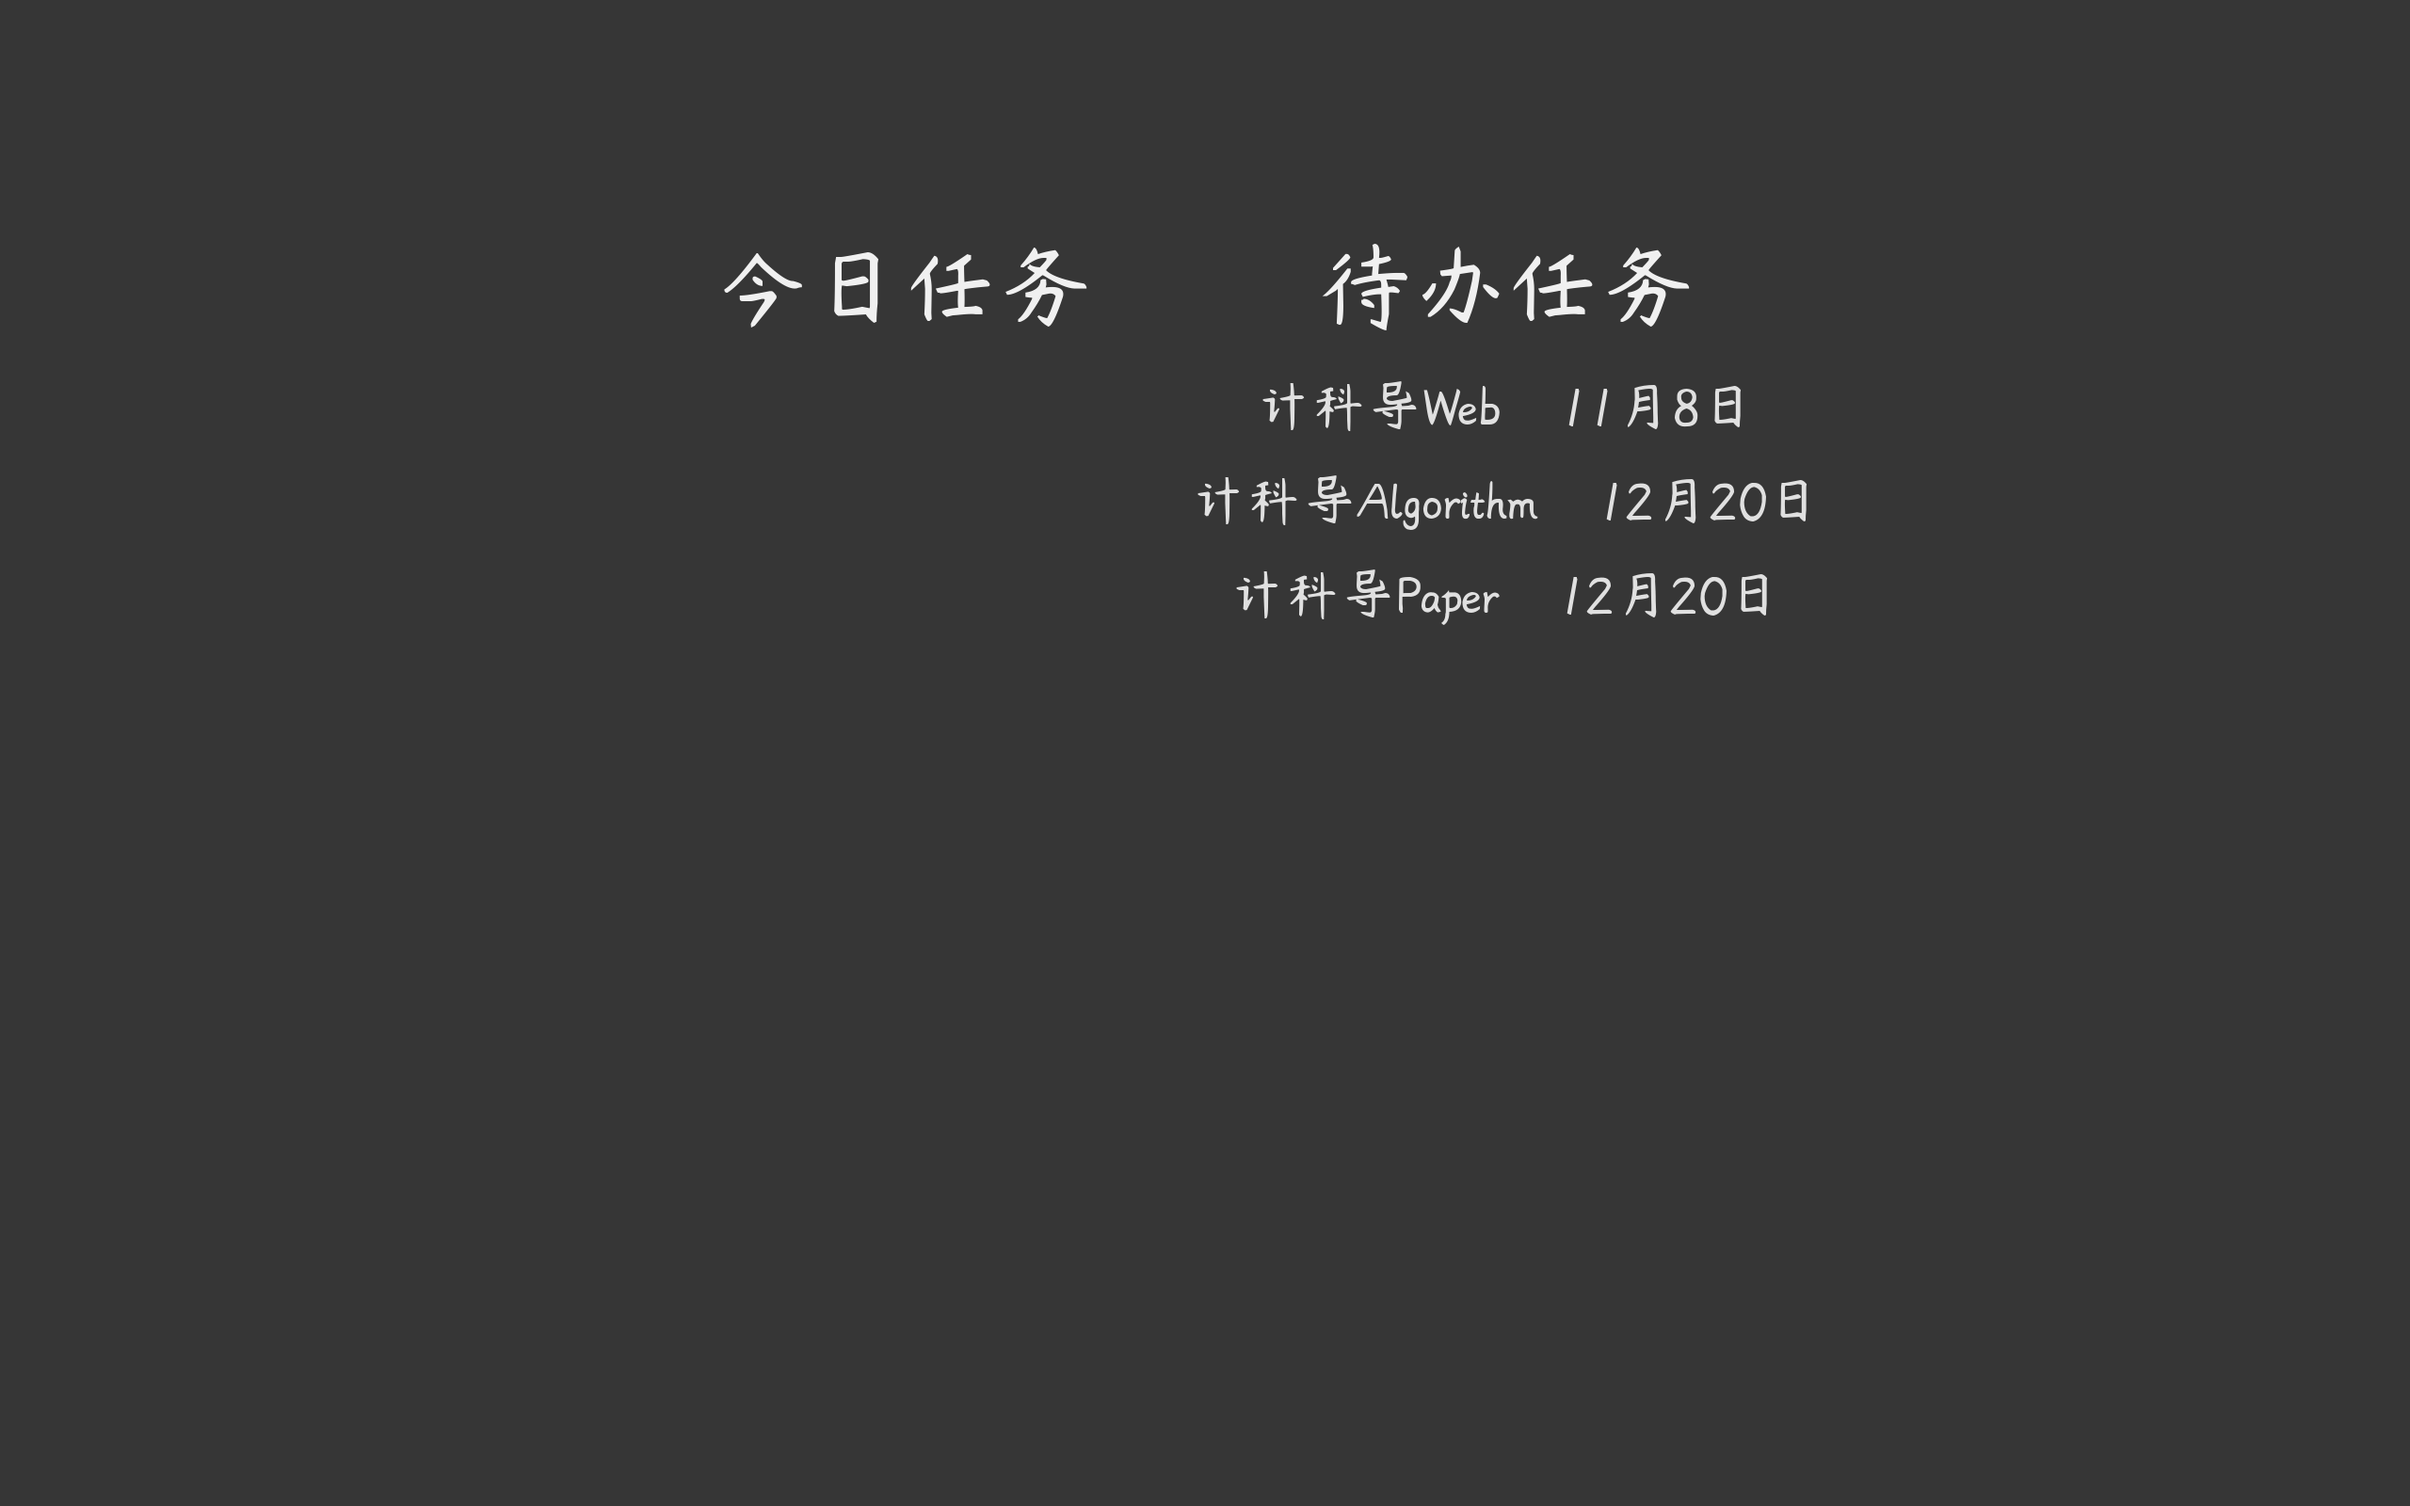
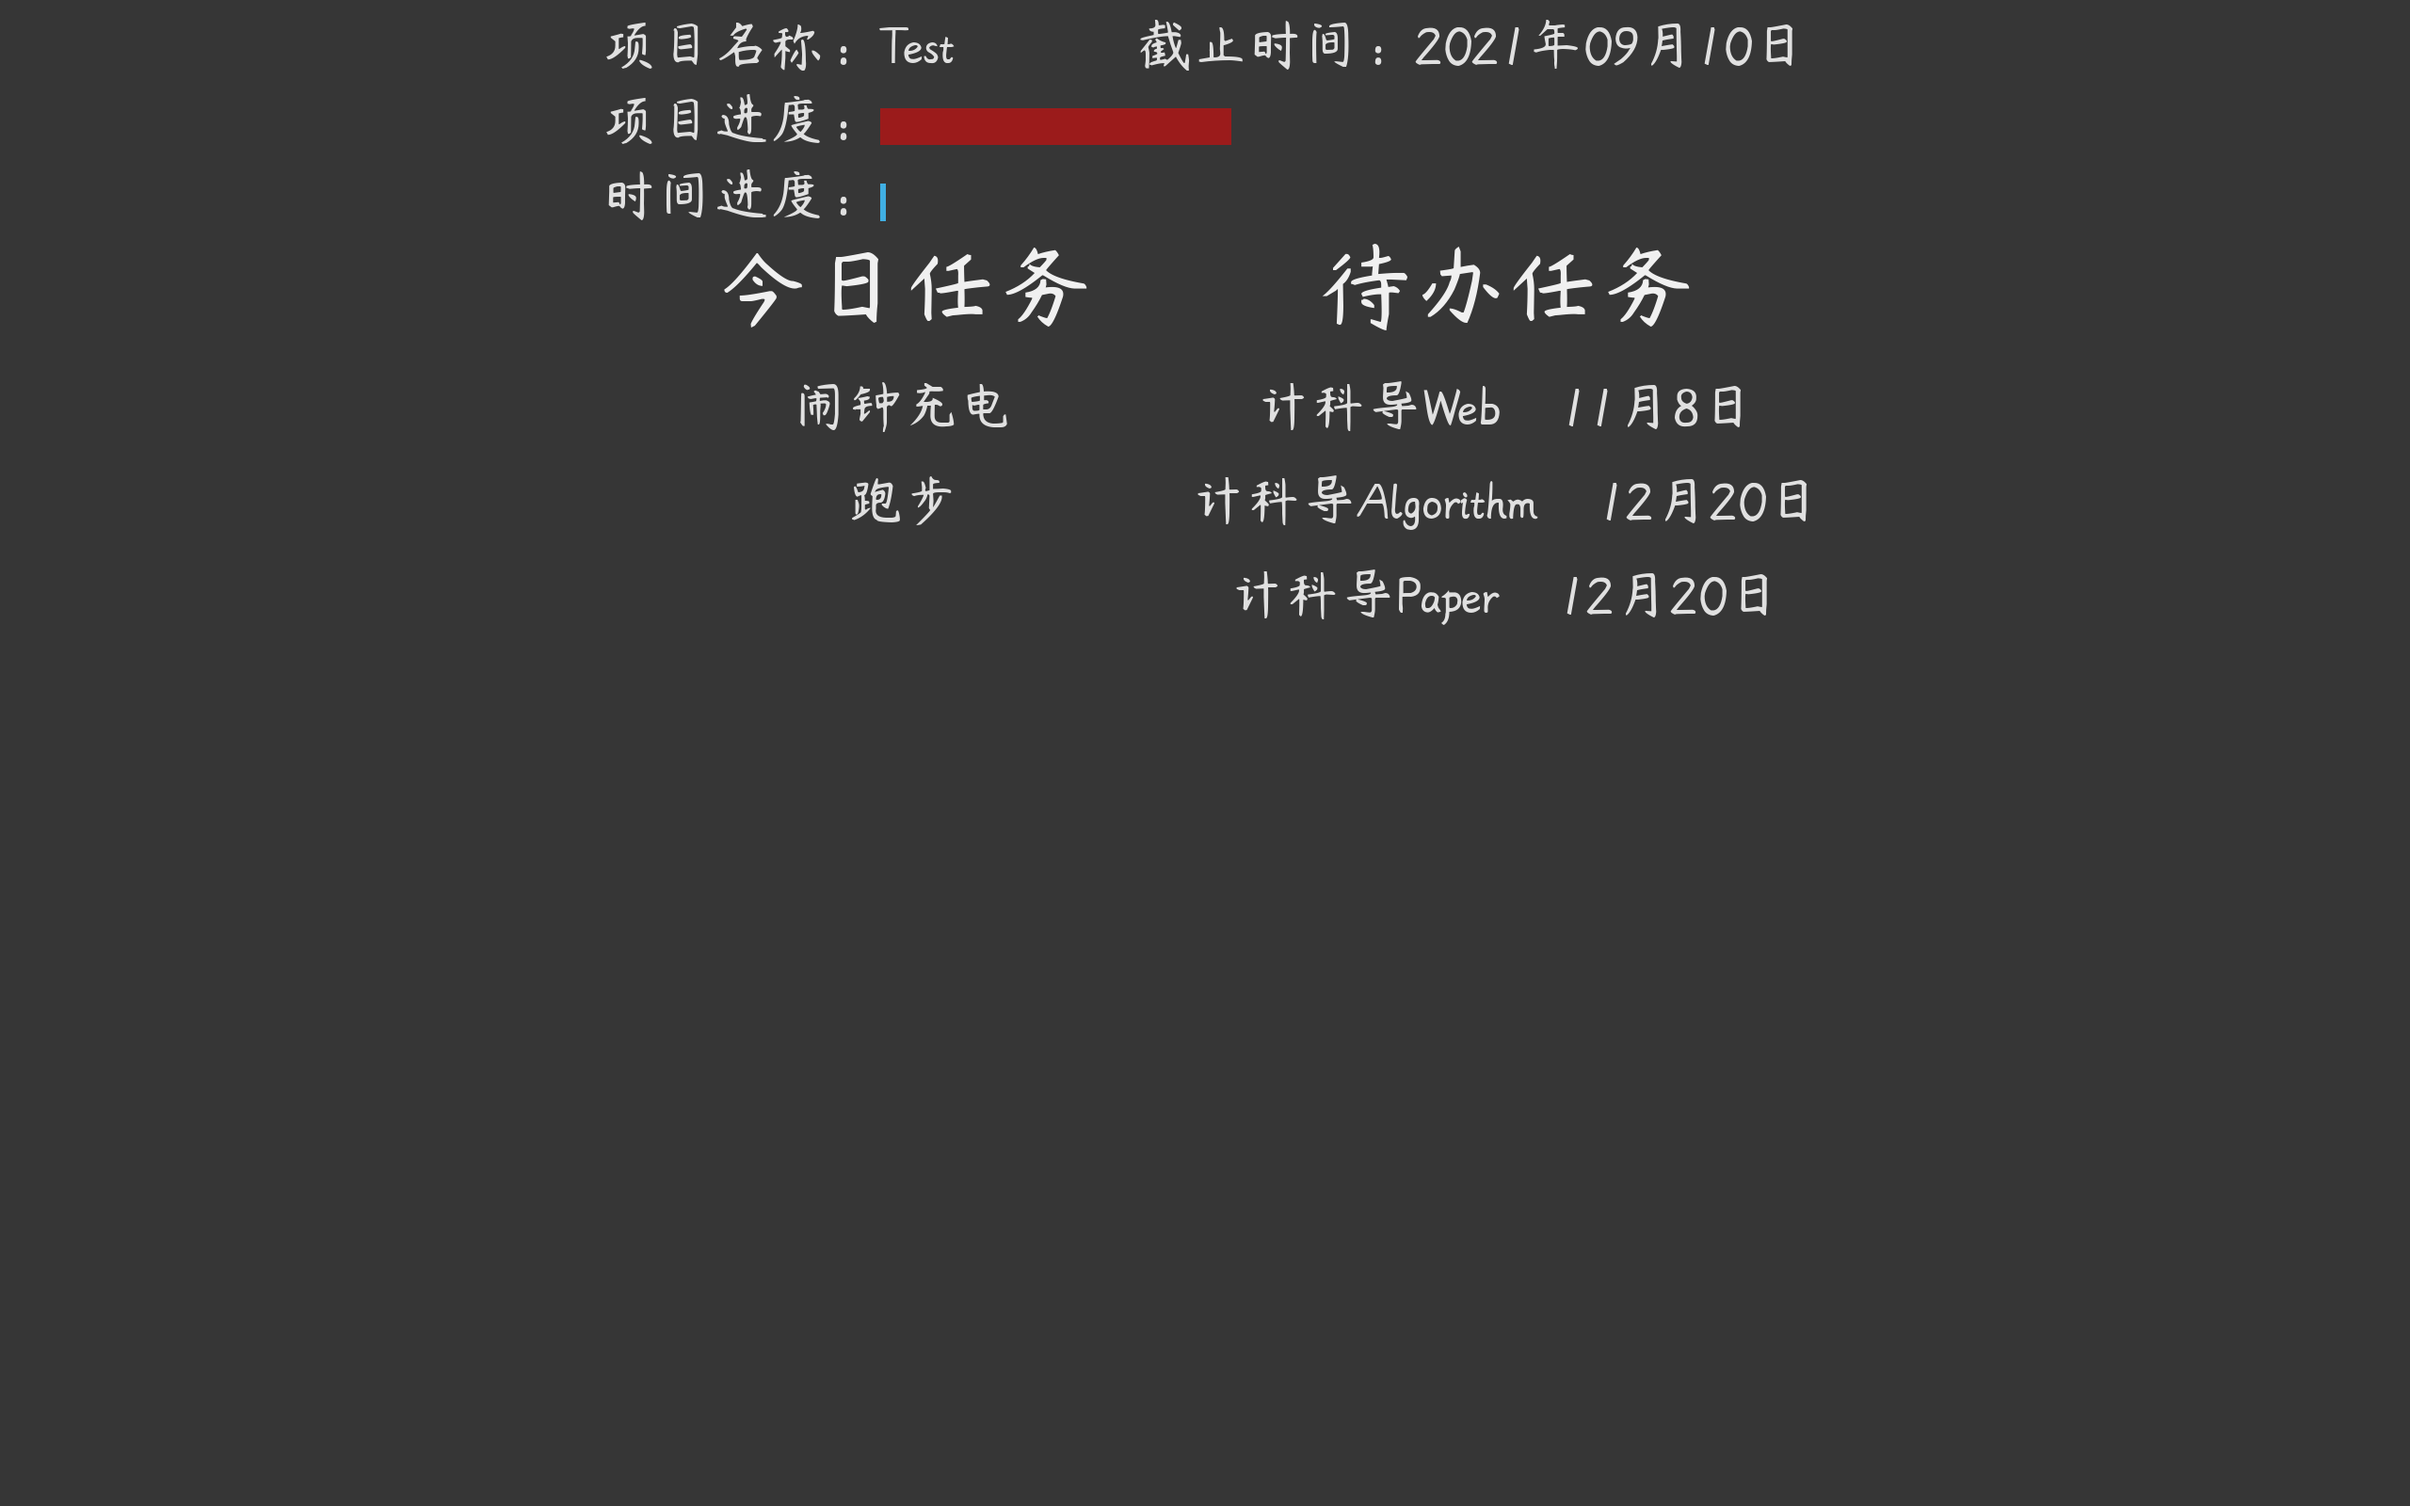
finish Project painting

diff --git a/Code/Project/p_paint.py b/Code/Project/p_paint.py
@@ -1,7 +1,60 @@
 # p_paint.py
 
 from Project import project
+from paint_init import *
+import time
 
+# 绘制没有长期项目时的提示
+def drawNoProject():
+    p_title_size = TITLE_FONT.getsize('没有长期项目')
+    p_title_location = (WIN_WIDTH / 2 - p_title_size[0] / 2, WIN_HEIGHT / 16)
+    DRAW.text(p_title_location, '没有长期项目', TITLE_COLOR, TITLE_FONT)
 
 def paint_project():
-    pass
+    # 判断是否存在长期项目，并读取信息
+    try:
+        p_file = open(project.PROJECT_FILE, 'r', encoding='UTF-8')
+        p = p_file.readline()
+        p_contain = p.split(',')
+        if len(p_contain) != 5:
+            drawNoProject()
+            return
+        p_file.close()
+    except:
+        drawNoProject()
+        return
+    # 绘制项目名
+    p_name_location = (WIN_WIDTH / 4, WIN_HEIGHT / 100)
+    DRAW.text(p_name_location, '项目名称：{}'.format(p_contain[0]), NORMAL_COLOR, NORMAL_FONT)
+    # 绘制截止时间
+    ddl_date = time.strftime('%Y年%m月%d日', time.gmtime(int(p_contain[2])))
+    p_ddl_size = NORMAL_FONT.getsize('截止时间：{}'.format(ddl_date))
+    p_ddl_location = (WIN_WIDTH / 4 * 3 - p_ddl_size[0], WIN_HEIGHT / 100)
+    DRAW.text(p_ddl_location, '截止时间：{}'.format(ddl_date), NORMAL_COLOR, NORMAL_FONT)
+    # 绘制项目进度文字
+    p_done_location = (WIN_WIDTH / 4, WIN_HEIGHT / 100 * 6)
+    p_done_size = NORMAL_FONT.getsize('项目进度：')
+    DRAW.text(p_done_location, '项目进度：', NORMAL_COLOR, NORMAL_FONT)
+    # 绘制项目进度
+    p_done_x = WIN_WIDTH / 4 + p_done_size[0]
+    p_done_y = WIN_HEIGHT / 100 * 6 + p_done_size[1] / 3
+    p_done_length = (WIN_WIDTH / 2 - p_done_size[0] * 2) * int(p_contain[4]) / int(p_contain[3])
+    p_done_width = p_done_size[1] / 3 * 2
+    p_done_rec = (p_done_x, p_done_y, p_done_x + p_done_length, p_done_y + p_done_width)
+    DRAW.rectangle(p_done_rec, PROJECT_COLOR)
+    # 绘制时间进度文字
+    p_time_location = (WIN_WIDTH / 4, WIN_HEIGHT / 100 * 11)
+    p_time_size = NORMAL_FONT.getsize('时间进度：')
+    DRAW.text(p_time_location, '时间进度：', NORMAL_COLOR, NORMAL_FONT)
+    # 绘制时间进度
+    p_time_x = WIN_WIDTH / 4 + p_time_size[0]
+    p_time_y = WIN_HEIGHT / 100 * 11 + p_time_size[1] / 3
+    time_passed = time.time() - int(p_contain[1])
+    time_total = int(p_contain[2]) - int(p_contain[1])
+    if time_passed <= time_total:
+        p_time_length = (WIN_WIDTH / 2 - p_time_size[0] * 2) * time_passed / time_total
+    else:
+        p_time_length = (WIN_WIDTH / 2 - p_time_size[0] * 2)
+    p_time_width = p_time_size[1] / 3 * 2
+    p_time_rec = (p_time_x, p_time_y, p_time_x + p_time_length, p_time_y + p_time_width)
+    DRAW.rectangle(p_time_rec, TIME_COLOR)

diff --git a/Code/paint_init.py b/Code/paint_init.py
@@ -12,7 +12,9 @@ WIN_HEIGHT = user32.GetSystemMetrics(1) * 2
 # 设置颜色
 BACKGROUND_COLOR = '#363636'
 TITLE_COLOR = '#f0f0f0'
-MISSION_COLOR = '#e0e0e0'
+NORMAL_COLOR = '#e0e0e0'
+PROJECT_COLOR = '#9b1b1b'
+TIME_COLOR = '#40afe3'
 
 # 设置字体
 font_path = r'杨任东竹石体.ttf'
@@ -20,7 +22,7 @@ title_size = int(WIN_HEIGHT / 16)
 TITLE_FONT = ImageFont.truetype(font_path, title_size, encoding='UTF-8')
 
 mission_size = int(WIN_HEIGHT / 27)
-MISSION_FONT = ImageFont.truetype(font_path, mission_size, encoding='UTF-8')
+NORMAL_FONT = ImageFont.truetype(font_path, mission_size, encoding='UTF-8')
 
 # 初始化画布
 WALLPAPER = Image.new('RGB', (2560, 1600), BACKGROUND_COLOR)

diff --git a/Code/Event/e_paint.py b/Code/Event/e_paint.py
@@ -26,9 +26,9 @@ def paint_event():
             mission = e.split(',')[0]
             date = e.split(',')[1].strip('\n').split('/')
             mission = '{}    {}月{}日'.format(mission, date[1], date[2])
-            e_mission_size = MISSION_FONT.getsize(mission)[0]
+            e_mission_size = NORMAL_FONT.getsize(mission)[0]
             e_mission_w = WIN_WIDTH / 8 * 5 - e_mission_size / 2
-            DRAW.text((e_mission_w, e_mission_h), mission, MISSION_COLOR, MISSION_FONT)
+            DRAW.text((e_mission_w, e_mission_h), mission, NORMAL_COLOR, NORMAL_FONT)
             e_mission_h += e_linegap
             count += 1
             if count >= 15:

diff --git a/Code/Project/project.py b/Code/Project/project.py
@@ -116,11 +116,11 @@ def p_create():
             if mission_num == '0':
                 return
     # 生成数据
-    start_time = str(time.time())
+    start_time = str(int(time.time()))
     if ddl_type == 0:
-        ddl_time = time.time() + ddl * 3600 * 24
+        ddl_time = str(int(time.time() + ddl * 3600 * 24))
     else:
-        ddl_time = time.mktime(time.strptime(ddl, '%Y/%m/%d'))
+        ddl_time = str(int(time.mktime(time.strptime(ddl, '%Y/%m/%d'))))
     mission_num = str(mission_num)
     # 写入文件
     p_file = open(PROJECT_FILE, 'w', encoding='UTF-8')

diff --git a/Code/Routine/r_paint.py b/Code/Routine/r_paint.py
@@ -34,9 +34,9 @@ def paint_routine():
         r_linegap = WIN_HEIGHT / 27
     for r in r_list:
         mission = r.split(',')[2]
-        r_mission_size = MISSION_FONT.getsize(mission)[0]
+        r_mission_size = NORMAL_FONT.getsize(mission)[0]
         r_mission_w = WIN_WIDTH / 8 * 3 - r_mission_size / 2
-        DRAW.text((r_mission_w, r_mission_h), mission, MISSION_COLOR, MISSION_FONT)
+        DRAW.text((r_mission_w, r_mission_h), mission, NORMAL_COLOR, NORMAL_FONT)
         r_mission_h += r_linegap
         count += 1
         if count >= 15:

diff --git a/Code/Todo.py b/Code/Todo.py
@@ -53,6 +53,7 @@ if __name__ == '__main__':
     #     e_io.e_out_new('测试{}'.format(randint(0, 999999)), '{}/{}/{}'.format(2021, randint(1, 12), randint(1, 30)))
 
     # paint.generateWallpaper()
+    # paint.setWallpaper()
     # routine.r_create()
     # routine.r_finish()
     # routine.r_delete()
